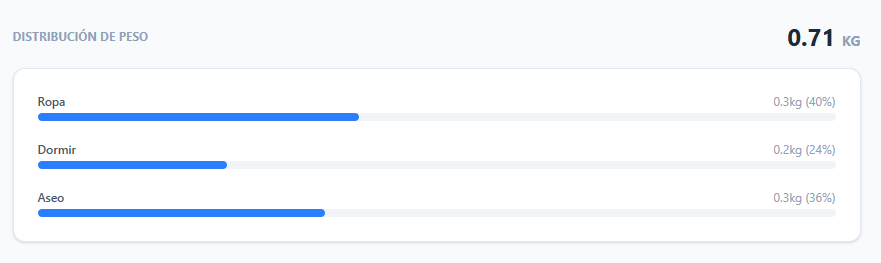
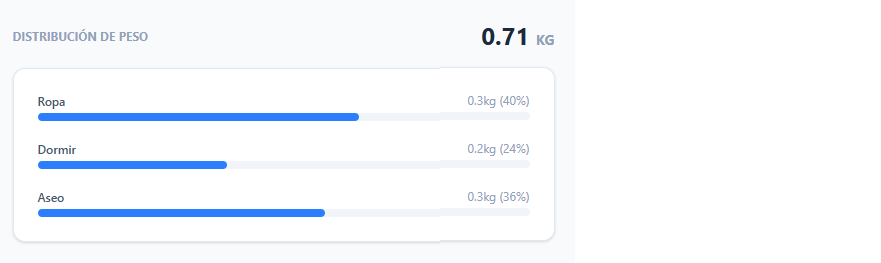
cambios imagenes Landing

diff --git a/frontend/src/pages/Landing.jsx b/frontend/src/pages/Landing.jsx
@@ -123,6 +123,7 @@ export default function Landing({ onIrLogin, onIrRegistro }) {
                 title="Peso por categorías"
                 text="Visualiza el peso total y el reparto entre ropa, cocina, descanso, electrónica y más."
                 image="/Peso.PNG"
+                imageClassName="max-w-full max-h-full object-contain scale-170 translate-x-26"
               />
               <FeatureCard
                 icon="public"
@@ -220,7 +221,7 @@ export default function Landing({ onIrLogin, onIrRegistro }) {
   );
 }
 
-function FeatureCard({ icon, title, text, image }) {
+function FeatureCard({ icon, title, text, image, imageClassName }) {
   return (
     <div className="p-10 rounded-xl border border-slate-200 bg-white hover:border-blue-900/50 transition-colors group min-h-[520px]">
       <div className="w-12 h-12 rounded-full bg-blue-50 flex items-center justify-center mb-6 transition-transform group-hover:scale-110">
@@ -238,7 +239,10 @@ function FeatureCard({ icon, title, text, image }) {
           <img
             src={image}
             alt={title}
-            className="max-w-full max-h-full object-contain transition-transform duration-500 group-hover:scale-105"
+            className={
+              imageClassName ??
+              "max-w-full max-h-full object-contain transition-transform duration-500 group-hover:scale-105"
+            }
           />
         </div>
       )}